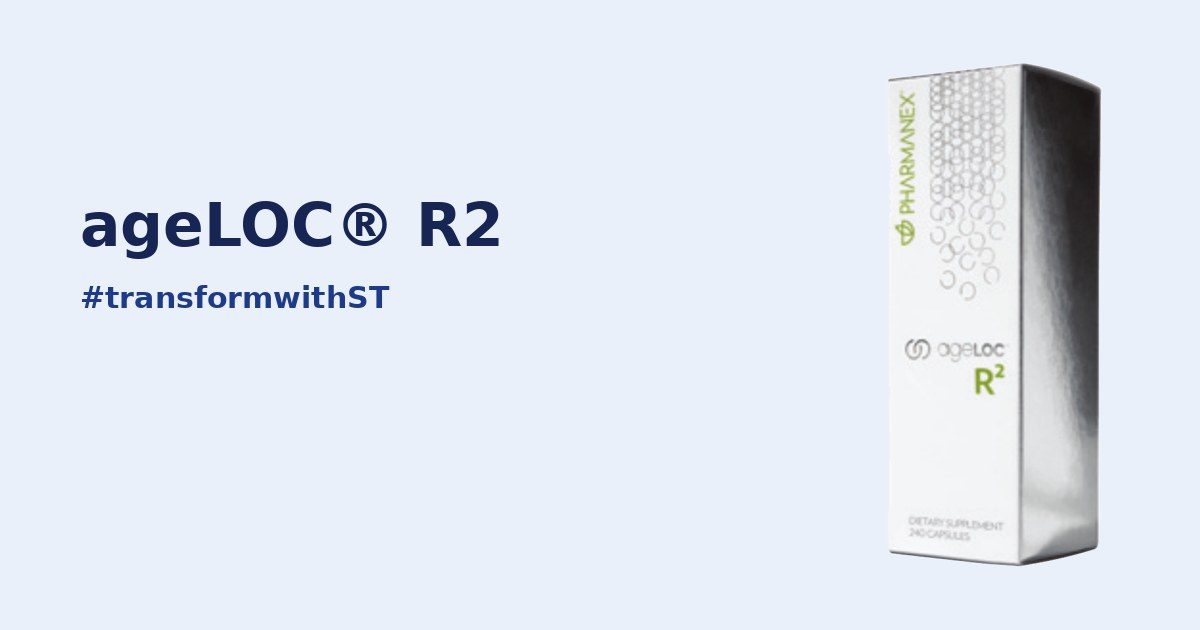
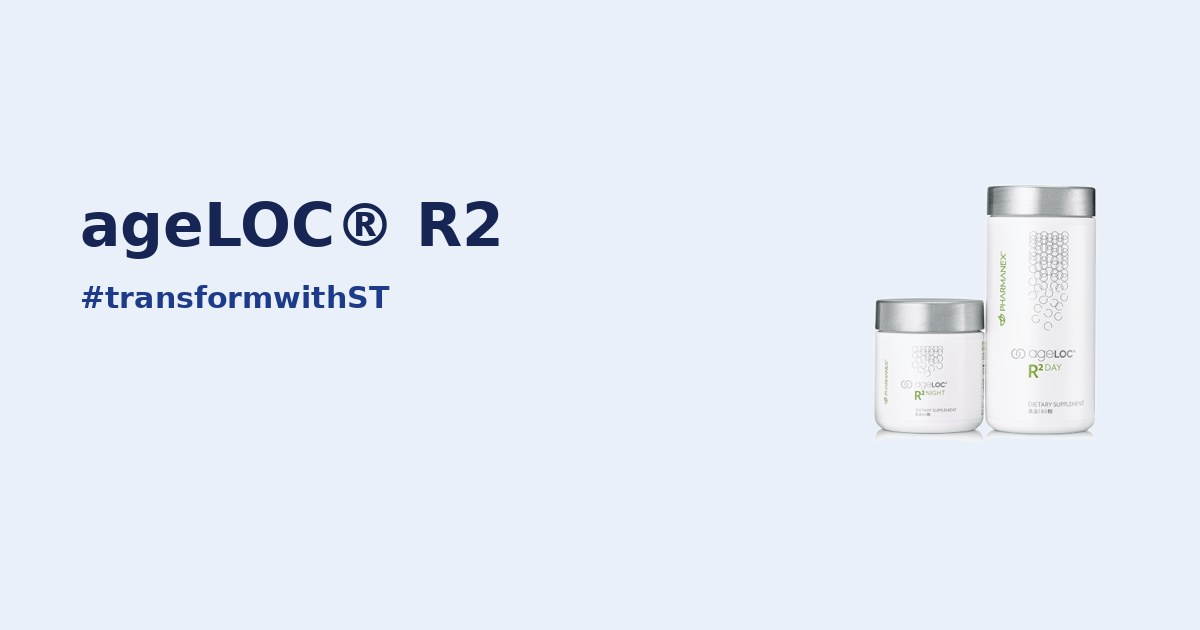
Swap product images: LifePak (hub card), R2 and G3
Claude-Session: https://claude.ai/code/session_01LcDVJV1FA9rf6EJrvtVc82

Changed region(s): [[0.7092, 0.0905, 0.925, 0.9048], [0.7092, 0.573, 0.74, 0.6032]]

diff --git a/en/products/index.html b/en/products/index.html
@@ -84,7 +84,7 @@ section{padding-block:clamp(36px,7vw,72px)}
     <input class="q" id="q" type="search" placeholder="Search products" aria-label="Search products">
   </div>
   <div class="grid" id="grid">
-<a class="card" href="/en/g3/" data-cat="wellness" data-h="g3 jus buah gâc dengan tiga buah lain, rasanya manis sedikit asam. bersertifikat scs untuk skin carotenoid score. a gâc fruit juice blended with three other fruits, sweet with a little tartness. scs-certified for the skin carotenoid score. pharmanex wellness"><div class="ph"><img src="/images/products/g3.png" alt="G3" loading="lazy"></div><div class="bd"><span class="tag">Pharmanex · Wellness</span><h3>G3</h3><p>A gâc fruit juice blended with three other fruits, sweet with a little tartness. SCS-certified for the Skin Carotenoid Score.</p><span class="go">Open page →</span></div></a>
+<a class="card" href="/en/g3/" data-cat="wellness" data-h="g3 jus buah gâc dengan tiga buah lain, rasanya manis sedikit asam. bersertifikat scs untuk skin carotenoid score. a gâc fruit juice blended with three other fruits, sweet with a little tartness. scs-certified for the skin carotenoid score. pharmanex wellness"><div class="ph"><img src="/images/products/g3.jpg" alt="G3" loading="lazy"></div><div class="bd"><span class="tag">Pharmanex · Wellness</span><h3>G3</h3><p>A gâc fruit juice blended with three other fruits, sweet with a little tartness. SCS-certified for the Skin Carotenoid Score.</p><span class="go">Open page →</span></div></a>
 <a class="card" href="/en/r2/" data-cat="wellness" data-h="ageloc® r2 dua formula yang diminum bergantian: r2 day di pagi hari dan r2 night di malam hari. dibuat dari sains ageloc. two formulas taken in turn: r2 day in the morning and r2 night in the evening. built on ageloc science. pharmanex wellness"><div class="ph"><img src="/images/products/r2.png" alt="ageLOC® R2" loading="lazy"></div><div class="bd"><span class="tag">Pharmanex · Wellness</span><h3>ageLOC® R2</h3><p>Two formulas taken in turn: R2 Day in the morning and R2 Night in the evening. Built on ageLOC science.</p><span class="go">Open page →</span></div></a>
 <a class="card" href="/en/youth/" data-cat="wellness" data-h="ageloc® youth suplemen softgel dengan minyak ikan, vitamin d3 dan k2, coq10, resveratrol dan banyak lagi. bersertifikat scs. a softgel supplement with fish oil, vitamins d3 and k2, coq10, resveratrol and more. scs-certified. pharmanex wellness"><div class="ph"><img src="/images/products/youth.png" alt="ageLOC® Youth" loading="lazy"></div><div class="bd"><span class="tag">Pharmanex · Wellness</span><h3>ageLOC® Youth</h3><p>A softgel supplement with fish oil, vitamins D3 and K2, CoQ10, resveratrol and more. SCS-certified.</p><span class="go">Open page →</span></div></a>
 <a class="card" href="/en/marineomega/" data-cat="wellness" data-h="marineomega® suplemen omega-3 dengan minyak ikan murni dan minyak krill, dengan aroma vanila dan lemon yang mengurangi rasa amis. an omega-3 supplement with pure fish oil and krill oil, with a vanilla and lemon scent that reduces the fishy taste. pharmanex wellness"><div class="ph"><img src="/images/products/marineomega.png" alt="MarineOmega®" loading="lazy"></div><div class="bd"><span class="tag">Pharmanex · Wellness</span><h3>MarineOmega®</h3><p>An omega-3 supplement with pure fish oil and krill oil, with a vanilla and lemon scent that reduces the fishy taste.</p><span class="go">Open page →</span></div></a>
@@ -95,7 +95,7 @@ section{padding-block:clamp(36px,7vw,72px)}
 <a class="card" href="/en/wellspa-io/" data-cat="beauty" data-h="ageloc® wellspa io™ perangkat beauty &amp; wellness dengan arus mikro adaptif dan aplikasi vera, untuk pijat tubuh, kulit dan otot. a beauty &amp; wellness device with adaptive microcurrent and the vera app, for body, skin and muscle massage. nu skin beauty"><div class="ph"><img src="/images/products/wellspa-io.png" alt="ageLOC® WellSpa iO™" loading="lazy"></div><div class="bd"><span class="tag">Nu Skin · Beauty</span><h3>ageLOC® WellSpa iO™</h3><p>A Beauty &amp; Wellness device with adaptive microcurrent and the Vera app, for body, skin and muscle massage.</p><span class="go">Open page →</span></div></a>
 <a class="card" href="/en/collagen-plus/" data-cat="beauty" data-h="beauty focus™ collagen+ stick pack rasa jeruk dengan bioactive collagen peptides, lutein dan phytoceramides. bersertifikat scs. an orange-flavored stick pack with bioactive collagen peptides, lutein and phytoceramides. scs-certified. pharmanex beauty"><div class="ph"><img src="/images/products/collagen-plus.png" alt="Beauty Focus™ Collagen+" loading="lazy"></div><div class="bd"><span class="tag">Pharmanex · Beauty</span><h3>Beauty Focus™ Collagen+</h3><p>An orange-flavored stick pack with Bioactive Collagen Peptides, lutein and phytoceramides. SCS-certified.</p><span class="go">Open page →</span></div></a>
 <a class="card" href="/en/lumispa-io/" data-cat="beauty" data-h="ageloc® lumispa® io perangkat pembersih dan peremajaan wajah dengan kepala silikon, micropulse oscillation dan aplikasi vera. a facial cleansing and renewal device with silicone heads, micropulse oscillation and the vera app. nu skin beauty"><div class="ph"><img src="/images/products/lumispa-io.png" alt="ageLOC® LumiSpa® iO" loading="lazy"></div><div class="bd"><span class="tag">Nu Skin · Beauty</span><h3>ageLOC® LumiSpa® iO</h3><p>A facial cleansing and renewal device with silicone heads, Micropulse Oscillation and the Vera app.</p><span class="go">Open page →</span></div></a>
-<a class="card" href="/en/lifepak/" data-cat="wellness" data-h="lifepak® multivitamin harian dalam satu sachet. ada tiga: versi indonesia ber-bpom, nano+, dan tablet. cari yang cocok buat kamu. a daily multivitamin in one sachet. three versions: the indonesian bpom one, nano+ and tablet. find the right one. pharmanex wellness"><div class="ph"><img src="/images/lifepak/classic-front.jpg" alt="LifePak®" loading="lazy"></div><div class="bd"><span class="tag">Pharmanex · Wellness</span><h3>LifePak®</h3><p>A daily multivitamin in one sachet. Three versions: the Indonesian BPOM one, Nano+ and Tablet. Find the right one.</p><span class="go">Open page →</span></div></a>
+<a class="card" href="/en/lifepak/" data-cat="wellness" data-h="lifepak® multivitamin harian dalam satu sachet. ada tiga: versi indonesia ber-bpom, nano+, dan tablet. cari yang cocok buat kamu. a daily multivitamin in one sachet. three versions: the indonesian bpom one, nano+ and tablet. find the right one. pharmanex wellness"><div class="ph"><img src="/images/lifepak/classic-pair.png" alt="LifePak®" loading="lazy"></div><div class="bd"><span class="tag">Pharmanex · Wellness</span><h3>LifePak®</h3><p>A daily multivitamin in one sachet. Three versions: the Indonesian BPOM one, Nano+ and Tablet. Find the right one.</p><span class="go">Open page →</span></div></a>
 <a class="card" href="/retinol/" data-cat="beauty" data-h="ageloc® tru face® peptide retinol complex retinol yang lembut di kulit. cara kerja, cara pakai, hasil studi, dan jawaban pertanyaan yang paling sering muncul. a retinol that is gentle on skin. how it works, how to use it, study results and the questions people ask most. nu skin beauty"><div class="ph"><img src="/images/retinol/tru-face-retinol.png" alt="ageLOC® Tru Face® Peptide Retinol Complex" loading="lazy"></div><div class="bd"><span class="tag">Nu Skin · Beauty</span><h3>ageLOC® Tru Face® Peptide Retinol Complex</h3><p>A retinol that is gentle on skin. How it works, how to use it, study results and the questions people ask most.</p><span class="nt">Page in Indonesian</span><span class="go">Open page →</span></div></a>
 <a class="card" href="/trme/" data-cat="wellness" data-h="ageloc® trme® system sistem 90 hari dari nu skin untuk komposisi tubuh. isi product information page-nya dibuat gampang dibaca. nu skin&#x27;s 90-day body composition system. its product information page, made easy to read. nu skin wellness"><div class="ph"><img src="/images/trme/trme-system.png" alt="ageLOC® TRME® System" loading="lazy"></div><div class="bd"><span class="tag">Nu Skin · Wellness</span><h3>ageLOC® TRME® System</h3><p>Nu Skin&#x27;s 90-day body composition system. Its Product Information Page, made easy to read.</p><span class="nt">Page in Indonesian</span><span class="go">Open page →</span></div></a>
   </div>

diff --git a/products/index.html b/products/index.html
@@ -84,7 +84,7 @@ section{padding-block:clamp(36px,7vw,72px)}
     <input class="q" id="q" type="search" placeholder="Cari produk" aria-label="Cari produk">
   </div>
   <div class="grid" id="grid">
-<a class="card" href="/g3/" data-cat="wellness" data-h="g3 jus buah gâc dengan tiga buah lain, rasanya manis sedikit asam. bersertifikat scs untuk skin carotenoid score. a gâc fruit juice blended with three other fruits, sweet with a little tartness. scs-certified for the skin carotenoid score. pharmanex wellness"><div class="ph"><img src="/images/products/g3.png" alt="G3" loading="lazy"></div><div class="bd"><span class="tag">Pharmanex · Wellness</span><h3>G3</h3><p>Jus buah gâc dengan tiga buah lain, rasanya manis sedikit asam. Bersertifikat SCS untuk Skin Carotenoid Score.</p><span class="go">Buka halaman →</span></div></a>
+<a class="card" href="/g3/" data-cat="wellness" data-h="g3 jus buah gâc dengan tiga buah lain, rasanya manis sedikit asam. bersertifikat scs untuk skin carotenoid score. a gâc fruit juice blended with three other fruits, sweet with a little tartness. scs-certified for the skin carotenoid score. pharmanex wellness"><div class="ph"><img src="/images/products/g3.jpg" alt="G3" loading="lazy"></div><div class="bd"><span class="tag">Pharmanex · Wellness</span><h3>G3</h3><p>Jus buah gâc dengan tiga buah lain, rasanya manis sedikit asam. Bersertifikat SCS untuk Skin Carotenoid Score.</p><span class="go">Buka halaman →</span></div></a>
 <a class="card" href="/r2/" data-cat="wellness" data-h="ageloc® r2 dua formula yang diminum bergantian: r2 day di pagi hari dan r2 night di malam hari. dibuat dari sains ageloc. two formulas taken in turn: r2 day in the morning and r2 night in the evening. built on ageloc science. pharmanex wellness"><div class="ph"><img src="/images/products/r2.png" alt="ageLOC® R2" loading="lazy"></div><div class="bd"><span class="tag">Pharmanex · Wellness</span><h3>ageLOC® R2</h3><p>Dua formula yang diminum bergantian: R2 Day di pagi hari dan R2 Night di malam hari. Dibuat dari sains ageLOC.</p><span class="go">Buka halaman →</span></div></a>
 <a class="card" href="/youth/" data-cat="wellness" data-h="ageloc® youth suplemen softgel dengan minyak ikan, vitamin d3 dan k2, coq10, resveratrol dan banyak lagi. bersertifikat scs. a softgel supplement with fish oil, vitamins d3 and k2, coq10, resveratrol and more. scs-certified. pharmanex wellness"><div class="ph"><img src="/images/products/youth.png" alt="ageLOC® Youth" loading="lazy"></div><div class="bd"><span class="tag">Pharmanex · Wellness</span><h3>ageLOC® Youth</h3><p>Suplemen softgel dengan minyak ikan, vitamin D3 dan K2, CoQ10, resveratrol dan banyak lagi. Bersertifikat SCS.</p><span class="go">Buka halaman →</span></div></a>
 <a class="card" href="/marineomega/" data-cat="wellness" data-h="marineomega® suplemen omega-3 dengan minyak ikan murni dan minyak krill, dengan aroma vanila dan lemon yang mengurangi rasa amis. an omega-3 supplement with pure fish oil and krill oil, with a vanilla and lemon scent that reduces the fishy taste. pharmanex wellness"><div class="ph"><img src="/images/products/marineomega.png" alt="MarineOmega®" loading="lazy"></div><div class="bd"><span class="tag">Pharmanex · Wellness</span><h3>MarineOmega®</h3><p>Suplemen omega-3 dengan minyak ikan murni dan minyak krill, dengan aroma vanila dan lemon yang mengurangi rasa amis.</p><span class="go">Buka halaman →</span></div></a>
@@ -95,7 +95,7 @@ section{padding-block:clamp(36px,7vw,72px)}
 <a class="card" href="/wellspa-io/" data-cat="beauty" data-h="ageloc® wellspa io™ perangkat beauty &amp; wellness dengan arus mikro adaptif dan aplikasi vera, untuk pijat tubuh, kulit dan otot. a beauty &amp; wellness device with adaptive microcurrent and the vera app, for body, skin and muscle massage. nu skin beauty"><div class="ph"><img src="/images/products/wellspa-io.png" alt="ageLOC® WellSpa iO™" loading="lazy"></div><div class="bd"><span class="tag">Nu Skin · Beauty</span><h3>ageLOC® WellSpa iO™</h3><p>Perangkat Beauty &amp; Wellness dengan arus mikro adaptif dan aplikasi Vera, untuk pijat tubuh, kulit dan otot.</p><span class="go">Buka halaman →</span></div></a>
 <a class="card" href="/collagen-plus/" data-cat="beauty" data-h="beauty focus™ collagen+ stick pack rasa jeruk dengan bioactive collagen peptides, lutein dan phytoceramides. bersertifikat scs. an orange-flavored stick pack with bioactive collagen peptides, lutein and phytoceramides. scs-certified. pharmanex beauty"><div class="ph"><img src="/images/products/collagen-plus.png" alt="Beauty Focus™ Collagen+" loading="lazy"></div><div class="bd"><span class="tag">Pharmanex · Beauty</span><h3>Beauty Focus™ Collagen+</h3><p>Stick pack rasa jeruk dengan Bioactive Collagen Peptides, lutein dan phytoceramides. Bersertifikat SCS.</p><span class="go">Buka halaman →</span></div></a>
 <a class="card" href="/lumispa-io/" data-cat="beauty" data-h="ageloc® lumispa® io perangkat pembersih dan peremajaan wajah dengan kepala silikon, micropulse oscillation dan aplikasi vera. a facial cleansing and renewal device with silicone heads, micropulse oscillation and the vera app. nu skin beauty"><div class="ph"><img src="/images/products/lumispa-io.png" alt="ageLOC® LumiSpa® iO" loading="lazy"></div><div class="bd"><span class="tag">Nu Skin · Beauty</span><h3>ageLOC® LumiSpa® iO</h3><p>Perangkat pembersih dan peremajaan wajah dengan kepala silikon, Micropulse Oscillation dan aplikasi Vera.</p><span class="go">Buka halaman →</span></div></a>
-<a class="card" href="/lifepak/" data-cat="wellness" data-h="lifepak® multivitamin harian dalam satu sachet. ada tiga: versi indonesia ber-bpom, nano+, dan tablet. cari yang cocok buat kamu. a daily multivitamin in one sachet. three versions: the indonesian bpom one, nano+ and tablet. find the right one. pharmanex wellness"><div class="ph"><img src="/images/lifepak/classic-front.jpg" alt="LifePak®" loading="lazy"></div><div class="bd"><span class="tag">Pharmanex · Wellness</span><h3>LifePak®</h3><p>Multivitamin harian dalam satu sachet. Ada tiga: versi Indonesia ber-BPOM, Nano+, dan Tablet. Cari yang cocok buat kamu.</p><span class="go">Buka halaman →</span></div></a>
+<a class="card" href="/lifepak/" data-cat="wellness" data-h="lifepak® multivitamin harian dalam satu sachet. ada tiga: versi indonesia ber-bpom, nano+, dan tablet. cari yang cocok buat kamu. a daily multivitamin in one sachet. three versions: the indonesian bpom one, nano+ and tablet. find the right one. pharmanex wellness"><div class="ph"><img src="/images/lifepak/classic-pair.png" alt="LifePak®" loading="lazy"></div><div class="bd"><span class="tag">Pharmanex · Wellness</span><h3>LifePak®</h3><p>Multivitamin harian dalam satu sachet. Ada tiga: versi Indonesia ber-BPOM, Nano+, dan Tablet. Cari yang cocok buat kamu.</p><span class="go">Buka halaman →</span></div></a>
 <a class="card" href="/retinol/" data-cat="beauty" data-h="ageloc® tru face® peptide retinol complex retinol yang lembut di kulit. cara kerja, cara pakai, hasil studi, dan jawaban pertanyaan yang paling sering muncul. a retinol that is gentle on skin. how it works, how to use it, study results and the questions people ask most. nu skin beauty"><div class="ph"><img src="/images/retinol/tru-face-retinol.png" alt="ageLOC® Tru Face® Peptide Retinol Complex" loading="lazy"></div><div class="bd"><span class="tag">Nu Skin · Beauty</span><h3>ageLOC® Tru Face® Peptide Retinol Complex</h3><p>Retinol yang lembut di kulit. Cara kerja, cara pakai, hasil studi, dan jawaban pertanyaan yang paling sering muncul.</p><span class="go">Buka halaman →</span></div></a>
 <a class="card" href="/trme/" data-cat="wellness" data-h="ageloc® trme® system sistem 90 hari dari nu skin untuk komposisi tubuh. isi product information page-nya dibuat gampang dibaca. nu skin&#x27;s 90-day body composition system. its product information page, made easy to read. nu skin wellness"><div class="ph"><img src="/images/trme/trme-system.png" alt="ageLOC® TRME® System" loading="lazy"></div><div class="bd"><span class="tag">Nu Skin · Wellness</span><h3>ageLOC® TRME® System</h3><p>Sistem 90 hari dari Nu Skin untuk komposisi tubuh. Isi Product Information Page-nya dibuat gampang dibaca.</p><span class="go">Buka halaman →</span></div></a>
   </div>

diff --git a/en/g3/index.html b/en/g3/index.html
@@ -274,7 +274,7 @@ section{padding-block:clamp(48px,9vw,96px);scroll-margin-top:84px}
     <a class="btn quiet js-wa" href="https://wa.me/628170241185"><span>Message <span class="cn">Coach AJ</span></span></a>
   </div>
   <div class="meta"><span><span>Run by <b class="cn">Coach AJ</b>, an official Nu Skin distributor, not the official Nu Skin site</span></span><span>Fruit juice</span><span>SCS-certified</span><span>Check availability in Indonesia with Coach AJ</span></div>
-  <img class="pimg" src="/images/products/g3.png" alt="G3 Gâc Superfruit Blend" width="520" height="420" fetchpriority="high">
+  <img class="pimg" src="/images/products/g3.jpg" alt="G3 Gâc Superfruit Blend" width="520" height="420" fetchpriority="high">
 </div></div>
 
 <section id="apa"><div class="wrap"><div class="head reveal"><p class="kicker">What it is</p><h2>G3</h2></div><div class="prose reveal"><p>Gâc is rich in carotenoids in a form called lipocarotenes, which are carotenoids bound to natural fatty acids. According to Nu Skin material, that binding helps carotenoids and other nutrients get absorbed, and beta-carotene from gâc appears easier to absorb than beta-carotene from dark green vegetables.</p><p>The G3 formula adds three more fruits: Chinese lycium from southern China, Siberian pineapple from Asia and Cili fruit from the mountains of China. All are natural fruit juices. It tastes sweet with a little tartness, and its official material says the whole family can drink it daily.</p></div><div class="who reveal"><b>Who it suits</b><p>Good if you want to add fruit in an easy-to-drink form, or you want your skin carotenoid score to move up on the Pharmanex scanner. G3 does not replace whole fruits and vegetables.</p></div></div></section>

diff --git a/g3/index.html b/g3/index.html
@@ -274,7 +274,7 @@ section{padding-block:clamp(48px,9vw,96px);scroll-margin-top:84px}
     <a class="btn quiet js-wa" href="https://wa.me/628170241185"><span>Tanya <span class="cn">Coach AJ</span></span></a>
   </div>
   <div class="meta"><span><span>Dikelola <b class="cn">Coach AJ</b>, Distributor Nu Skin Resmi, bukan situs resmi Nu Skin</span></span><span>Jus buah</span><span>Bersertifikat SCS</span><span>Cek ketersediaan di Indonesia lewat Coach AJ</span></div>
-  <img class="pimg" src="/images/products/g3.png" alt="G3 Gâc Superfruit Blend" width="520" height="420" fetchpriority="high">
+  <img class="pimg" src="/images/products/g3.jpg" alt="G3 Gâc Superfruit Blend" width="520" height="420" fetchpriority="high">
 </div></div>
 
 <section id="apa"><div class="wrap"><div class="head reveal"><p class="kicker">Apa itu</p><h2>G3</h2></div><div class="prose reveal"><p>Gâc kaya akan karotenoid dalam bentuk yang disebut lipocarotene, yaitu karotenoid yang terikat dengan asam lemak alami. Menurut materi Nu Skin, ikatan itu membantu karotenoid dan nutrisi lain diserap, dan beta-karoten dari gâc tampak lebih mudah diserap daripada beta-karoten dari sayuran hijau tua.</p><p>Formula G3 menambahkan tiga buah lain: Chinese lycium dari Tiongkok selatan, Siberian pineapple dari Asia, dan Cili dari pegunungan Tiongkok. Semuanya sari buah alami. Rasanya manis dan sedikit asam, dan menurut materi resminya bisa diminum tiap hari oleh seluruh keluarga.</p></div><div class="who reveal"><b>Cocok untuk siapa</b><p>Kamu yang mau menambah asupan buah dalam bentuk yang gampang diminum, atau ingin skor karotenoid kulitnya ikut naik di pemindai Pharmanex. G3 tidak menggantikan buah dan sayur utuh.</p></div></div></section>

diff --git a/scripts/products/wellness.py b/scripts/products/wellness.py
@@ -2,7 +2,7 @@
 # Facts come from the official Nu Skin / Pharmanex Product Information Pages (PIP). No prices on purpose.
 
 G3 = dict(
-    slug='g3', img='/images/products/g3.png', cat='wellness', brand='Pharmanex', name='G3',
+    slug='g3', img='/images/products/g3.jpg', cat='wellness', brand='Pharmanex', name='G3',
     full='G3 Gâc Superfruit Blend',
     h1=('G3, jus gâc dengan lipocarotene', 'G3, a gâc fruit blend with lipocarotenes'),
     sub=('Jus buah yang bisa kamu minum tiap hari', 'A fruit juice you can drink every day'),
